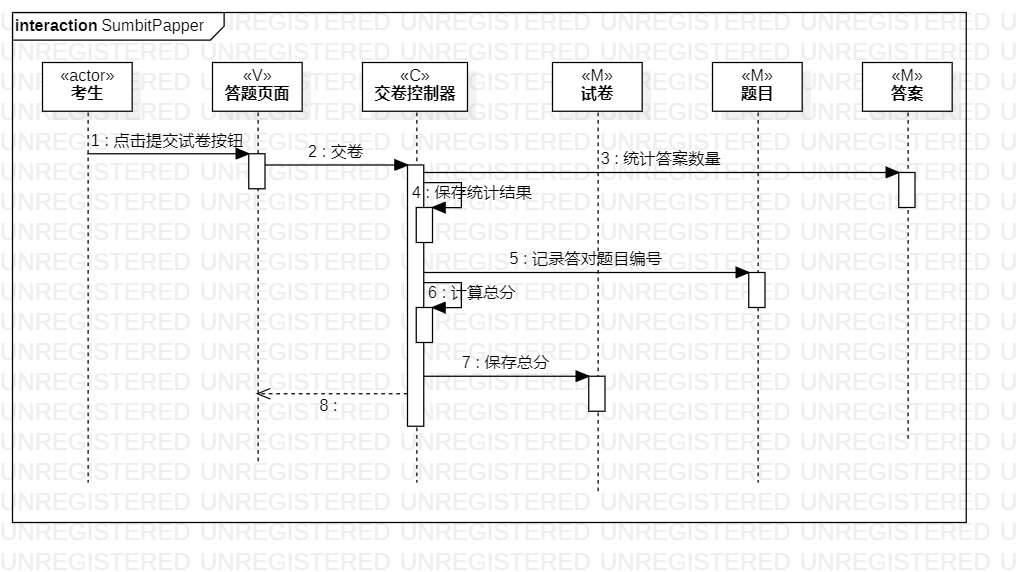
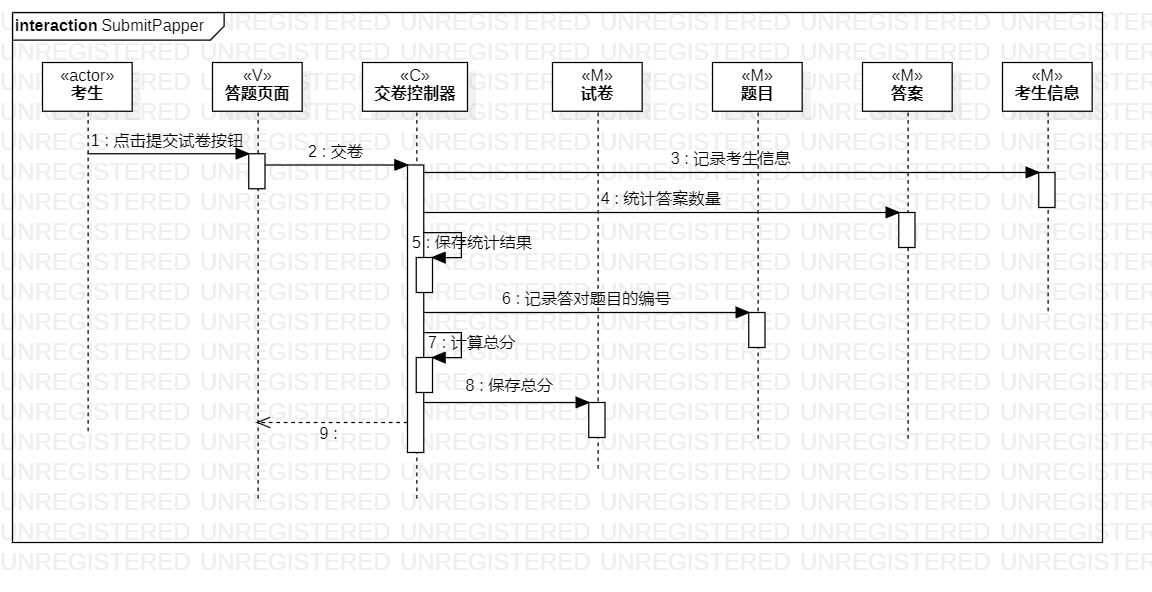
#6 #53 实验六：交互建模(修改交卷顺序图)

diff --git a/students/1714080902319/lab2.md b/students/1714080902319/lab2.md
@@ -65,11 +65,12 @@
 | 前置条件 | 考生已进入答题页面                                | 可选               |
 | 后置条件 | 系统进入分数页面                                  | 可选               |
 | 基本流程 | 1. 考生点击提交试卷按钮                           | 用例执行成功的步骤 |
-| ~        | 2. 系统统计考生答案数量，保存统计结果             |                    |
-| ~        | 3. 系统检查已经答完全部50道题，系统提示“提交成功” |                    |
-| ~        | 4. 系统记录答对题目的编号                         |                    |
-| ~        | 5. 系统计算分数                                   |                    |
-| ~        | 6. 系统保存总分                                   |                    |
-| ~        | 7. 系统显示总分                                   |                    |
+| ~        | 2. 系统记录考生信息                               |                    |
+| ~        | 3. 系统统计考生答案数量，保存统计结果             |                    |
+| ~        | 4. 系统检查已经答完全部50道题，系统提示“提交成功” |                    |
+| ~        | 5. 系统记录答对题目的编号                         |                    |
+| ~        | 6. 系统计算分数                                   |                    |
+| ~        | 7. 系统保存总分                                   |                    |
+| ~        | 8. 系统显示总分                                   |                    |
 | 扩展流程 | 3.1 系统检查未答完全部50道题，系统提示“提交失败”  | 用例执行失败       |
 

diff --git a/students/1714080902319/lab3.md b/students/1714080902319/lab3.md
@@ -38,3 +38,4 @@
 ## 五、实验总结
 
 		出于让活动图简洁的考虑，修改了实验二交卷用例规约的扩展流程。将系统提示从“未答完50道题，提交失败”改为“提交失败”。虽然之前的提示更加的面向用户，告诉用户是有题目没做才提交失败。但是出于让活动图简洁，缩短了提示。
+
